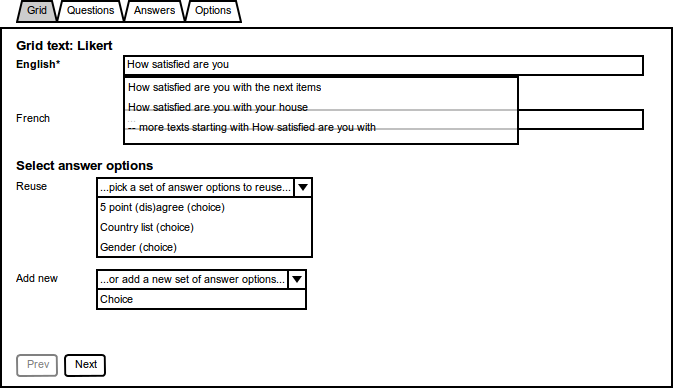
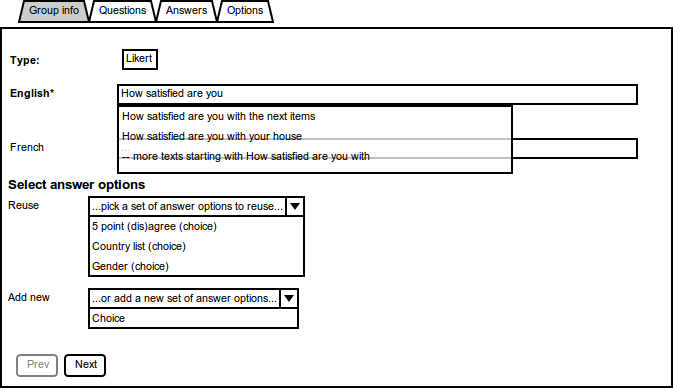
Adjust wireframes after discussion
* rename grid to group of questions/group info
* set likert as type of group (future proof for new type of group (eg
address)

diff --git a/wireframes/index_files/story.js b/wireframes/index_files/story.js
@@ -503,7 +503,7 @@ var story = {
      "rect": [
       192,
       576,
-      314,
+      350,
       604
      ]
     },
@@ -682,7 +682,7 @@ var story = {
      "rect": [
       192,
       220,
-      314,
+      350,
       248
      ]
     },
@@ -1555,27 +1555,27 @@ var story = {
     {
      "page": 22,
      "rect": [
-      9,
+      11,
       0,
-      49,
+      81,
       23
      ]
     },
     {
      "page": 24,
      "rect": [
-      49,
+      81,
       0,
-      116,
+      148,
       23
      ]
     },
     {
      "page": 23,
      "rect": [
-      177,
+      209,
       0,
-      233,
+      265,
       23
      ]
     }
@@ -1599,46 +1599,46 @@ var story = {
     {
      "page": 24,
      "rect": [
-      57,
+      89,
       0,
-      124,
+      156,
       23
      ]
     },
     {
      "page": 21,
      "rect": [
-      124,
+      156,
       0,
-      185,
+      217,
       23
      ]
     },
     {
      "page": 23,
      "rect": [
-      185,
+      217,
       0,
-      241,
+      273,
       23
      ]
     },
     {
      "page": 24,
      "rect": [
-      96,
-      290,
-      307,
-      312
+      88,
+      309,
+      299,
+      331
      ]
     },
     {
      "page": 17,
      "rect": [
-      96,
-      197,
-      313,
-      252
+      88,
+      216,
+      305,
+      271
      ]
     }
    ]
@@ -1672,25 +1672,25 @@ var story = {
      "rect": [
       17,
       0,
-      57,
+      87,
       23
      ]
     },
     {
      "page": 24,
      "rect": [
-      57,
+      87,
       0,
-      124,
+      154,
       23
      ]
     },
     {
      "page": 21,
      "rect": [
-      124,
+      154,
       0,
-      185,
+      215,
       23
      ]
     }
@@ -1698,7 +1698,7 @@ var story = {
   },
   {
    "title": "tab-likert-questions",
-   "height": 405,
+   "height": 432,
    "width": 673,
    "image": "25-tab-likert-questions.png",
    "links": [
@@ -1706,45 +1706,45 @@ var story = {
      "page": 21,
      "rect": [
       56,
-      375,
+      402,
       98,
-      392
+      419
      ]
     },
     {
      "page": 22,
      "rect": [
       8,
-      375,
+      402,
       50,
-      392
+      419
      ]
     },
     {
      "page": 22,
      "rect": [
-      9,
-      8,
-      49,
-      31
+      11,
+      0,
+      81,
+      23
      ]
     },
     {
      "page": 21,
      "rect": [
-      116,
-      8,
-      177,
-      31
+      148,
+      0,
+      209,
+      23
      ]
     },
     {
      "page": 23,
      "rect": [
-      177,
-      8,
-      233,
-      31
+      209,
+      0,
+      265,
+      23
      ]
     }
    ]
